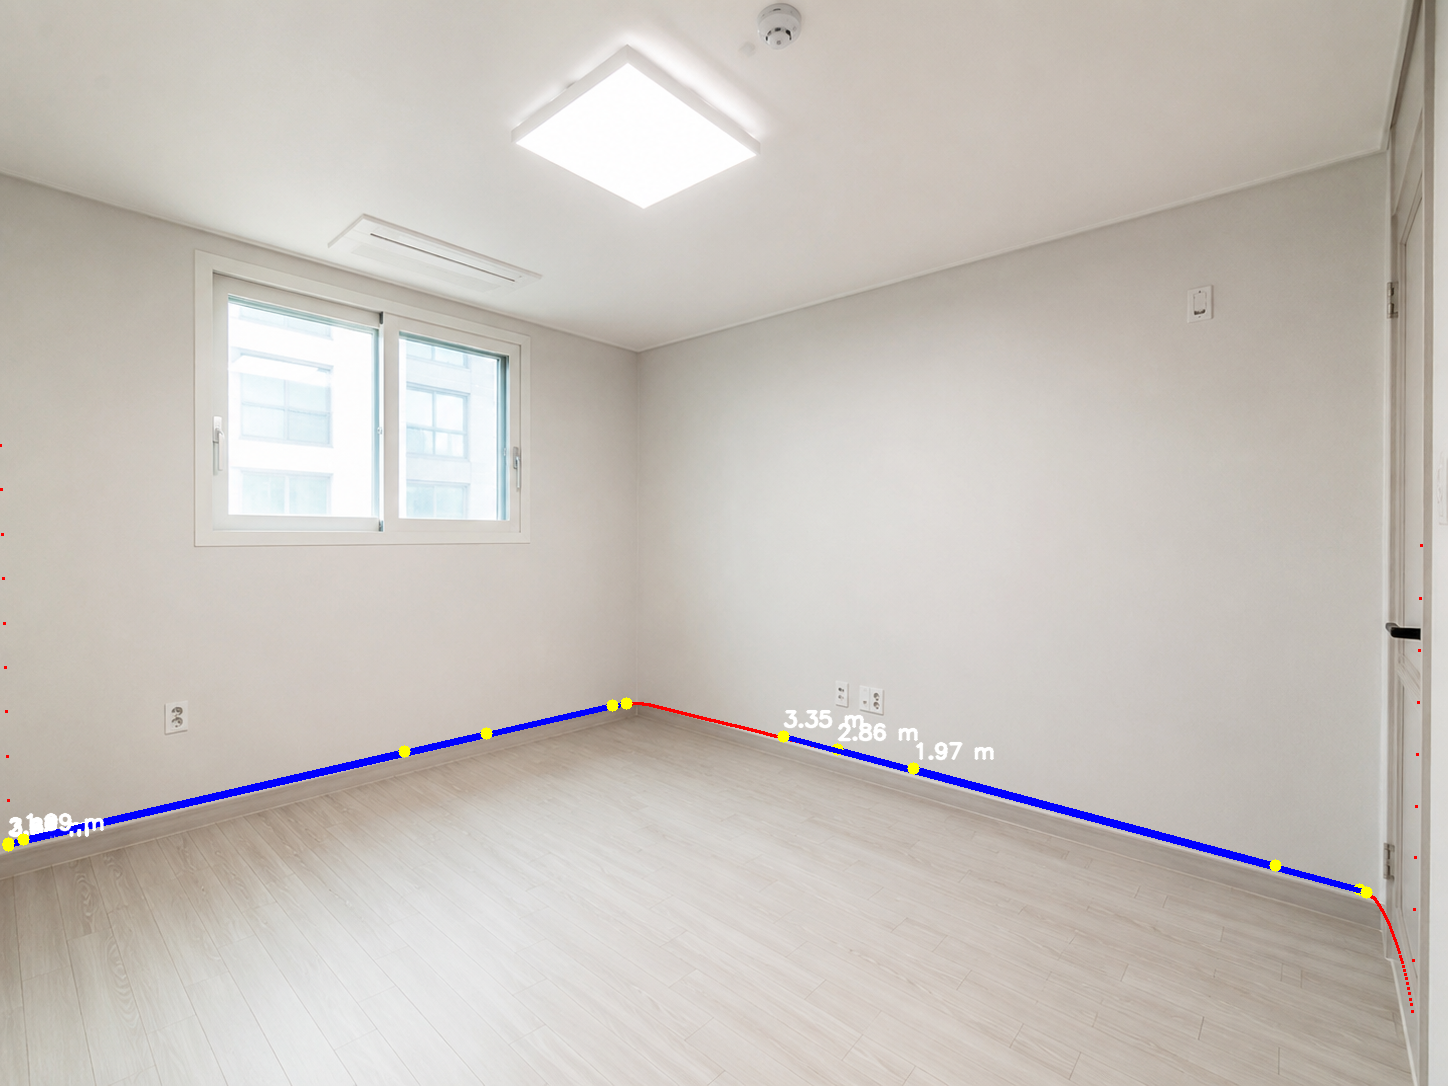
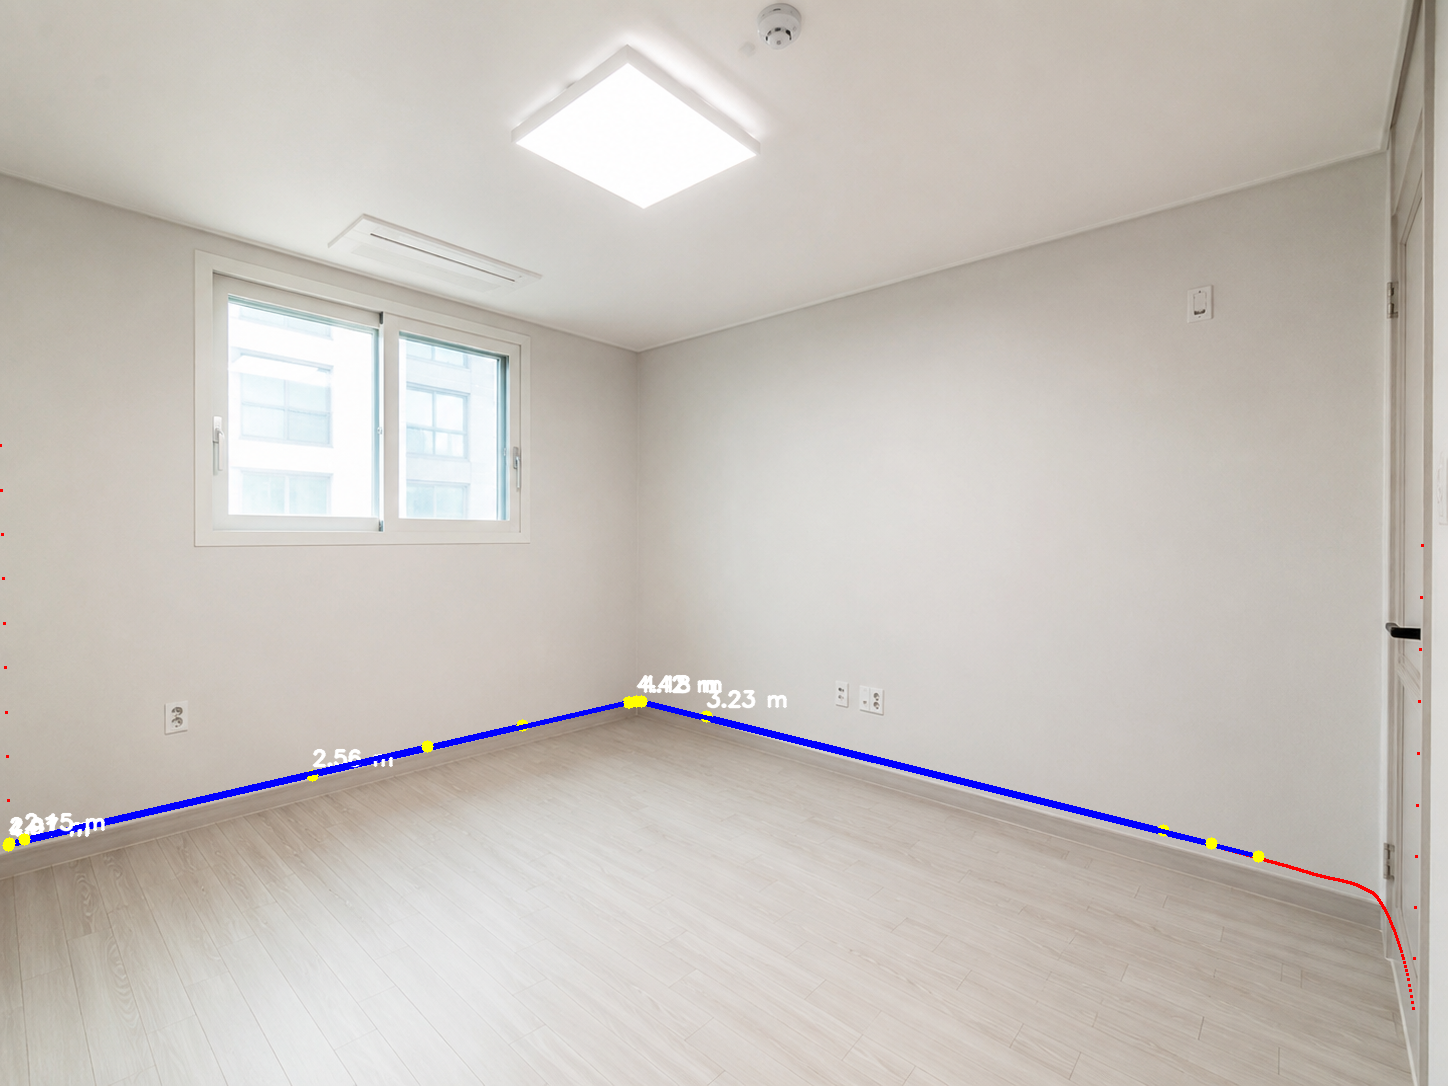
모델 추론용 이미지 파일 추가. -> ('shared/models/test_10.png')

diff --git a/depth/base_test/depth_test_v1.py b/depth/base_test/depth_test_v1.py
@@ -35,11 +35,11 @@ from transformers import AutoImageProcessor, AutoModelForDepthEstimation
 # 1. 경로 및 설정값
 # =========================
 
-INPUT_IMAGE_PATH = Path(r"C:\Users\khrha\Desktop\SWPJ_4\Interior-AI-Platform\depth\base_test\test_10.png")
+INPUT_IMAGE_PATH = Path(r"C:\Users\khrha\Desktop\SWPJ_4\Interior-AI-Platform\depth\base_test\test_9.png")
 
 # 여기 숫자만 그때그때 바꾸면 됩니다.
 # 예: 1 -> result_1, 2 -> result_2, 3 -> result_3
-RESULT_NUMBER = 10
+RESULT_NUMBER = 9
 
 BASE_OUTPUT_DIR = Path(r"C:\Users\khrha\Desktop\SWPJ_4\Interior-AI-Platform\depth\base_test")
 RESULT_NAME = f"result_{RESULT_NUMBER}"
